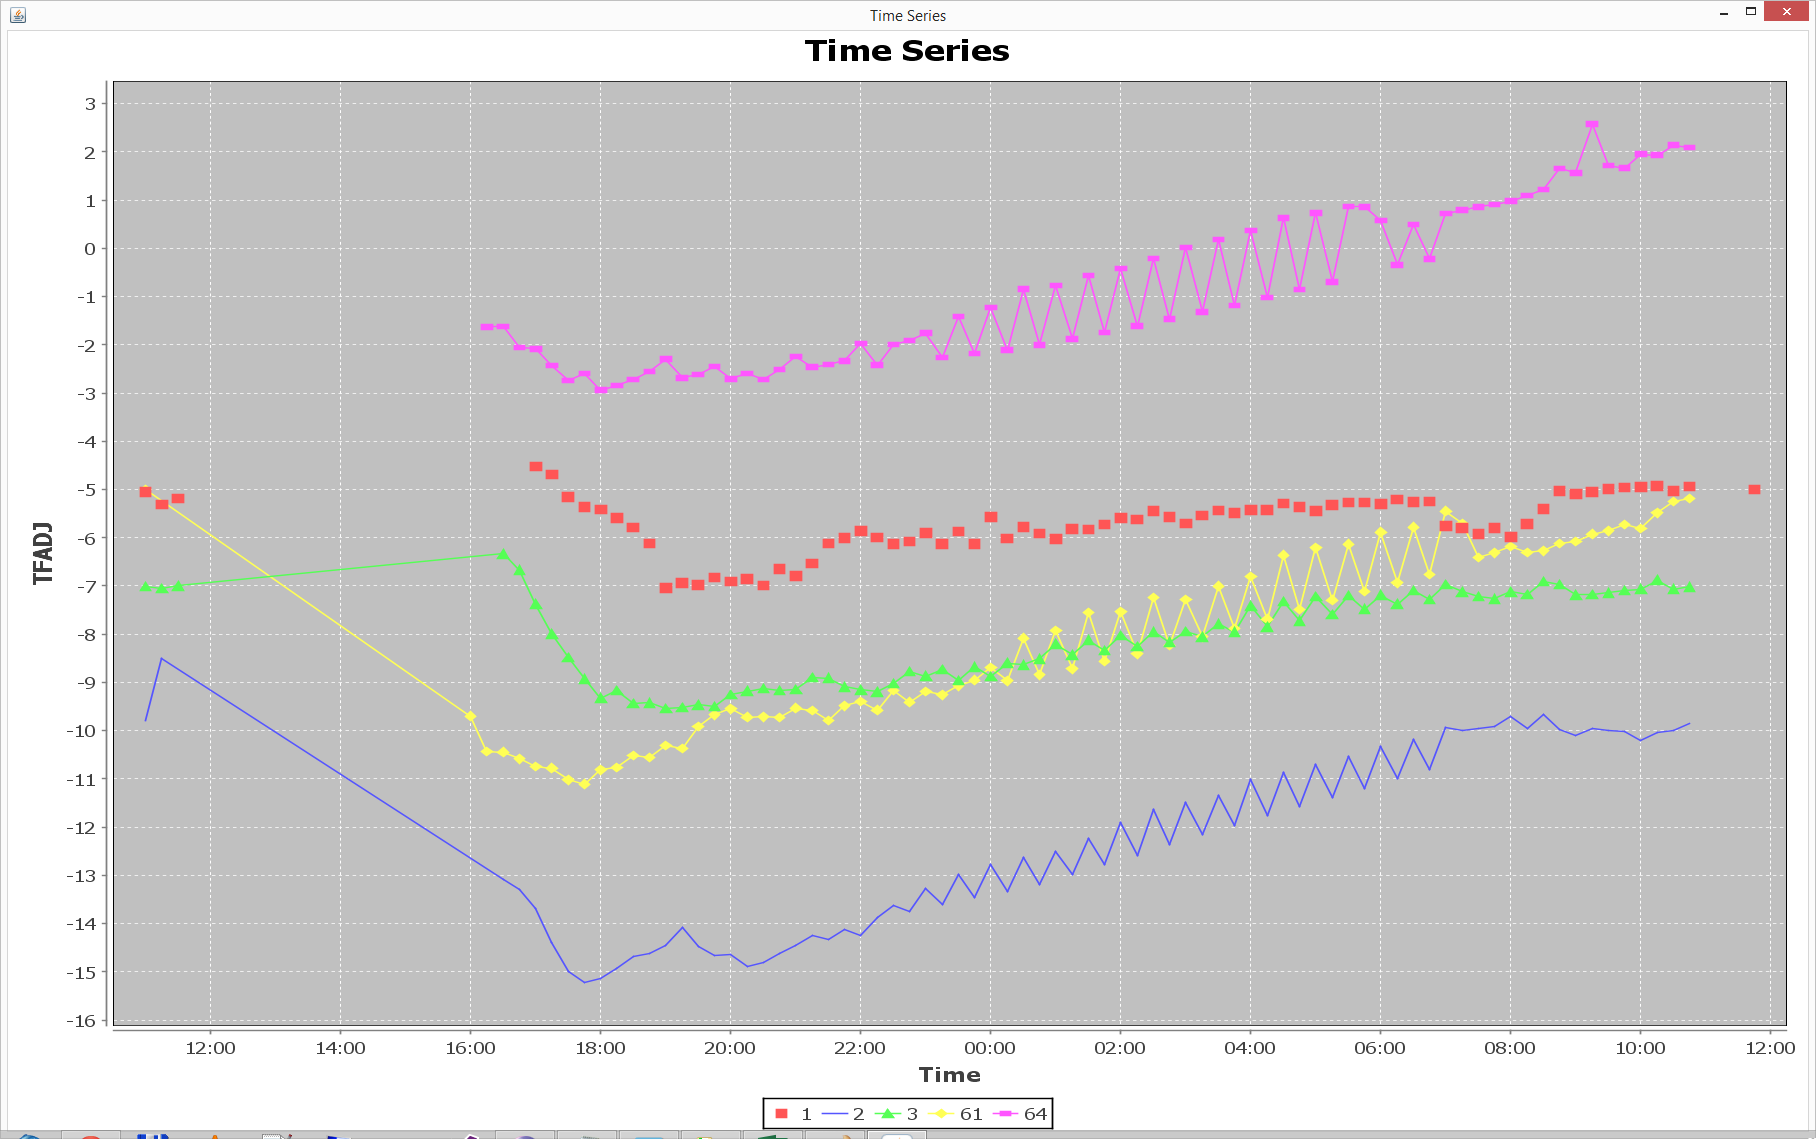
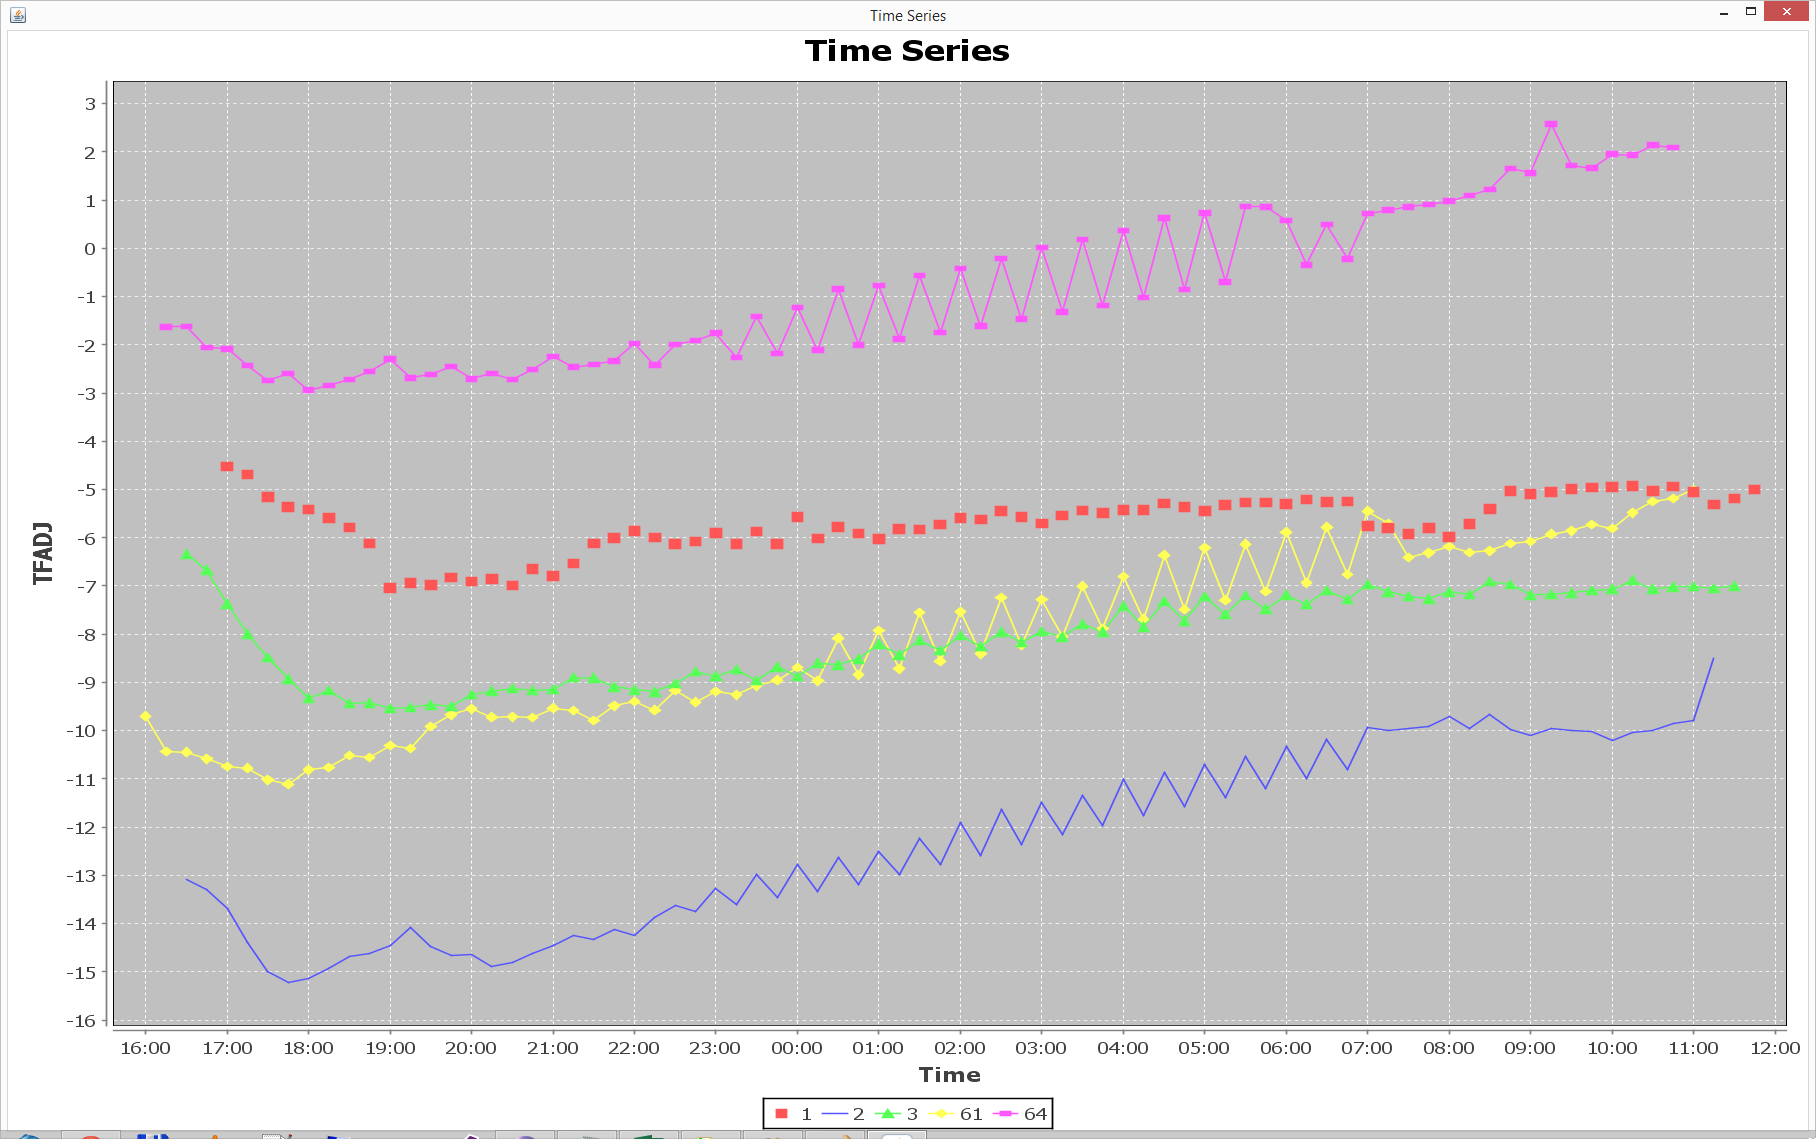
fixed charts

diff --git a/src/pl/poznan/put/TimeSeries/View/MainForm.java b/src/pl/poznan/put/TimeSeries/View/MainForm.java
@@ -35,15 +35,14 @@ public class MainForm {
 
 		return patients;
 	}
-
-	static boolean isSmoothingOn = true;
+	
 	static int smoothingSize = 20;
 
 	public static void main(String[] args) {
 		Dimension prefferedSize = new Dimension(1800, 1100);
 		Patient[] patients = ReadData("doc/dane/gTimeData.7.5.20130123a_sub.csv");
 
-		if (isSmoothingOn) {
+		if (smoothingSize>1) {
 			for (Patient patient : patients) {
 				patient.setCharacteristics(Smoother.SmoothCharacteristics(
 						patient.getCharacteristics(), smoothingSize));

diff --git a/src/pl/poznan/put/TimeSeries/DataReaders/CsvReader.java b/src/pl/poznan/put/TimeSeries/DataReaders/CsvReader.java
@@ -45,10 +45,10 @@ public class CsvReader {
 			
 			int minutes = Integer.parseInt(minuteElems[1]);
 			int hours = Integer.parseInt(minuteElems[0]);
-			int days = 1;
+			int days = 2;
 			
-			if(hours<11 || (hours<12 && minutes>30))
-				days = 2;
+			if(hours>=12)
+				days = 1;
 			
 			Minute exTime = new Minute(minutes, hours,days,1,1900);
 			float tfadj;
